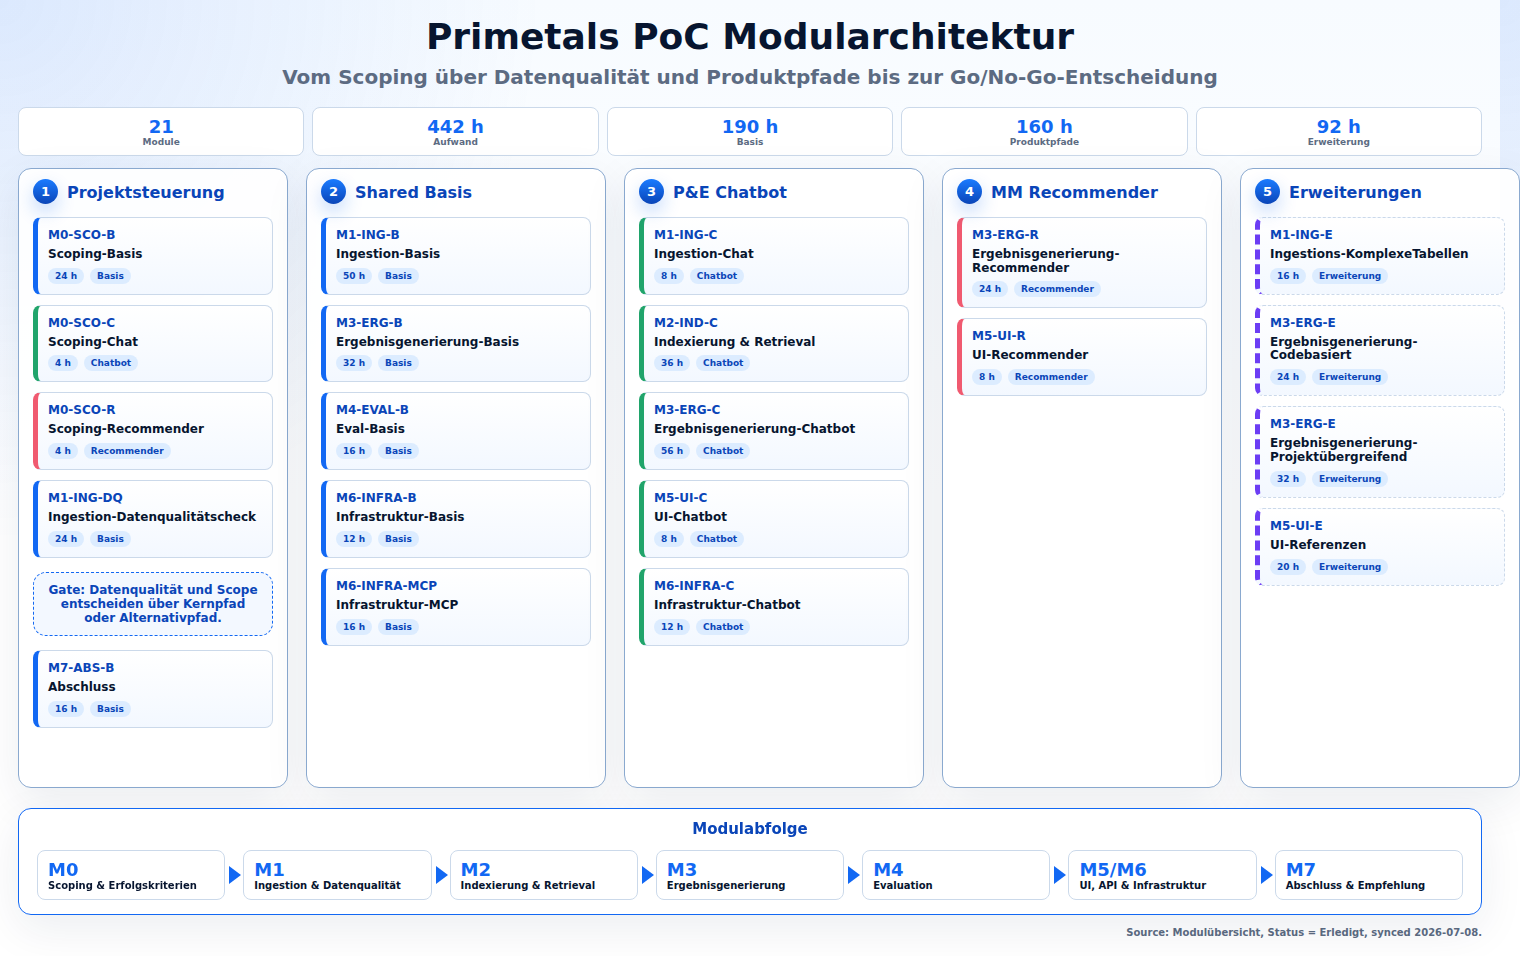
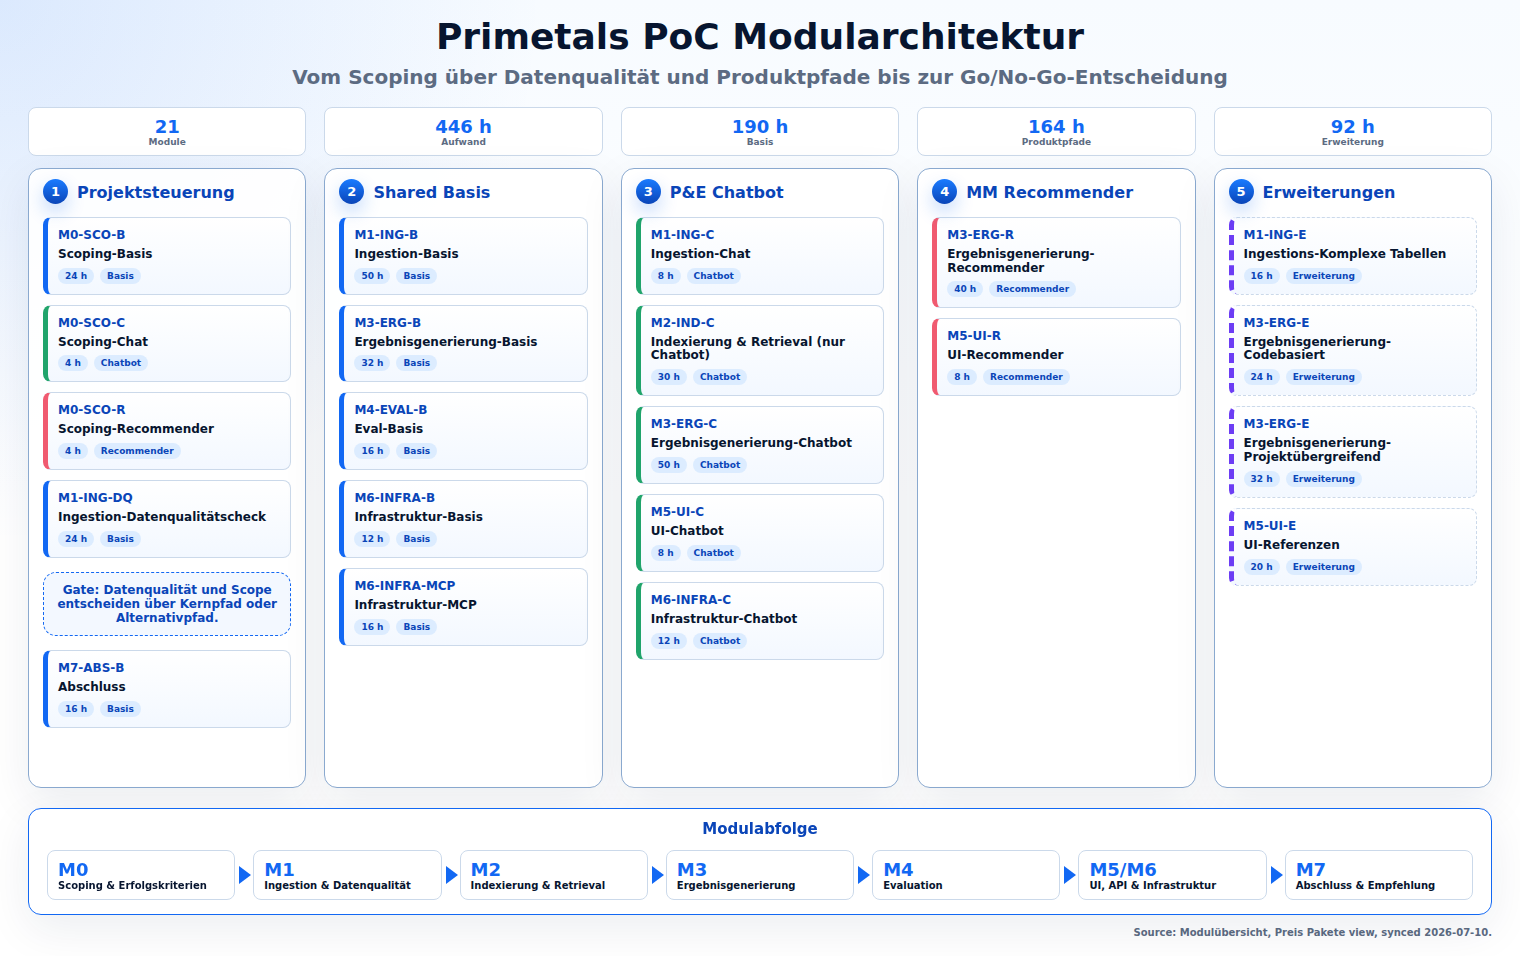
Update Primetals module data and diagram styles
- Modified `modules.json` to update synchronization date and filter criteria for modules.
- Enhanced content formatting in module descriptions for clarity and consistency.
- Adjusted CSS styles in `module-architecture.html` to improve layout and responsiveness, including new column gap settings and minimum width adjustments for elements.
- Updated PNG export of the module architecture diagram to reflect recent changes.

diff --git a/projects/primetals/diagrams/module-architecture.html b/projects/primetals/diagrams/module-architecture.html
@@ -9,6 +9,8 @@
     <link rel="stylesheet" href="../../../src/diagram-css/themes/researchly.css">
     <style>
       .module-page {
+        --module-column-gap: 18px;
+
         width: 1500px;
         min-height: 900px;
         margin: 0 auto;
@@ -17,13 +19,14 @@
 
       .module-board {
         display: grid;
-        grid-template-columns: 270px 300px 300px 280px 280px;
-        gap: 18px;
+        grid-template-columns: repeat(5, minmax(0, 1fr));
+        gap: var(--module-column-gap);
         align-items: stretch;
       }
 
       .module-zone {
         position: relative;
+        min-width: 0;
         min-height: 620px;
         padding: 48px 14px 14px;
         border: 1px solid var(--diagram-border-strong);
@@ -47,6 +50,7 @@
       .module-card {
         display: grid;
         gap: 6px;
+        min-width: 0;
         padding: 10px;
         border: 1px solid var(--diagram-border);
         border-left: 5px solid var(--diagram-primary);
@@ -116,11 +120,12 @@
       .module-summary {
         display: grid;
         grid-template-columns: repeat(5, minmax(0, 1fr));
-        gap: 8px;
+        gap: var(--module-column-gap);
         margin: 0 0 12px;
       }
 
       .summary-tile {
+        min-width: 0;
         padding: 8px;
         border: 1px solid var(--diagram-border);
         border-radius: var(--diagram-radius-sm);